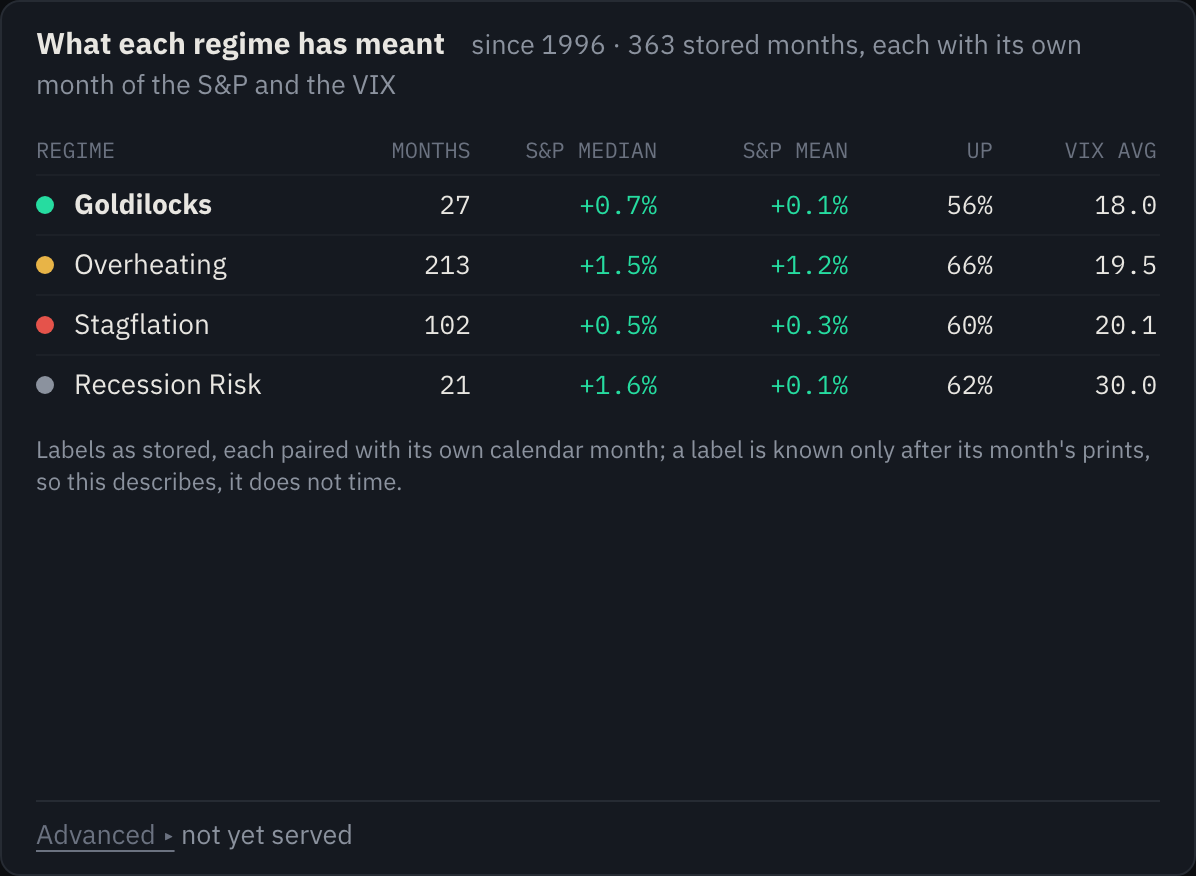
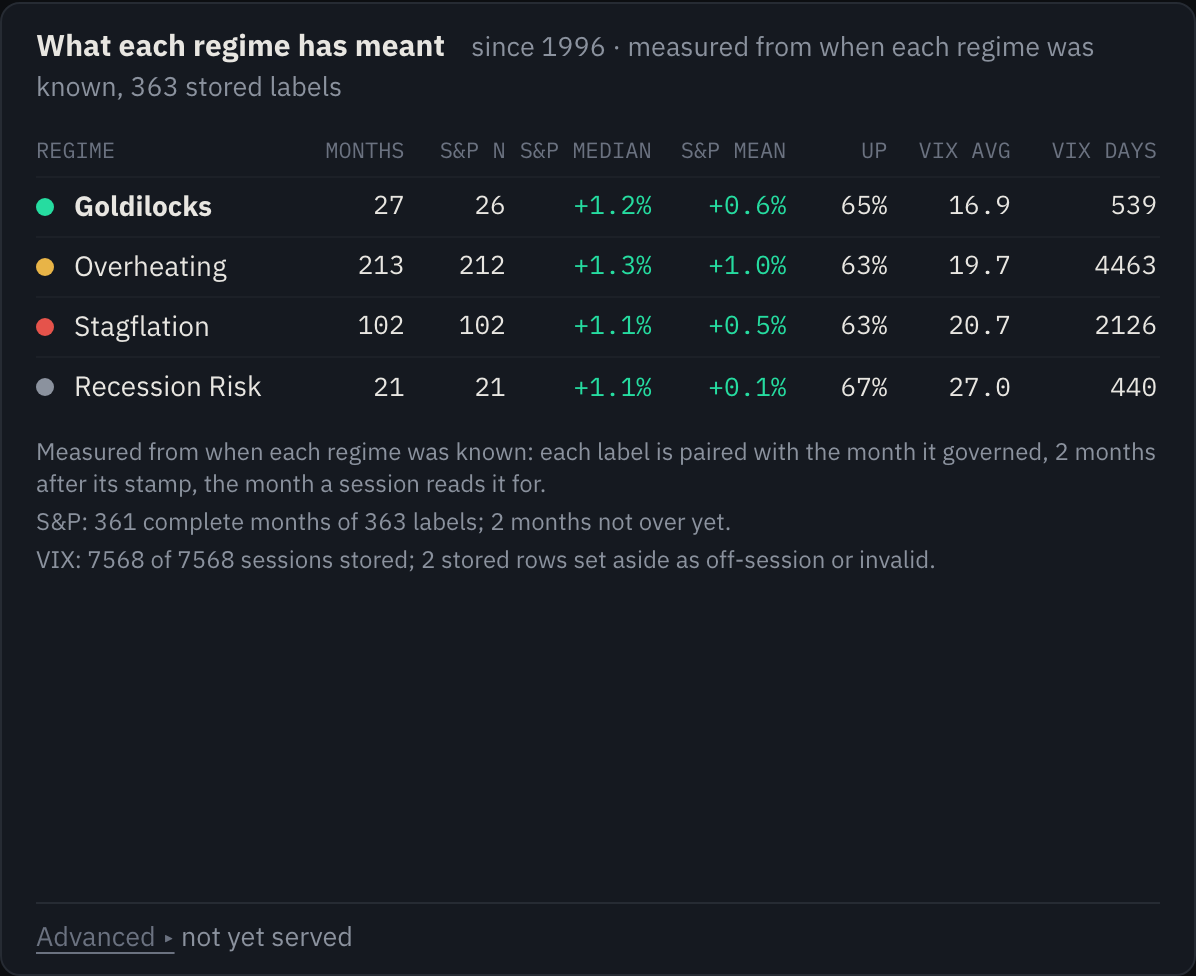
desk fill: live shots after the Codex fixes, and CLAUDE.md
- The live shots of the cards the fixes changed, retaken against a local API
  at c198e1d (no fixtures): the regime table (R-01, R-04, R-07), What would
  change it (R-01, R-05, R-06, R-08), the RSI card (R-08) and the Ledger
  (R-03), on the published store plus ^VIX and on it as it is.
- CLAUDE.md: stale judged per input (R-03); regime statistics measured from
  when each regime was known, return statuses, the VIX aligned and
  validated, and published rows apart from upcoming prints (R-01, R-05, R-06,
  R-07, R-08).

diff --git a/CLAUDE.md b/CLAUDE.md
@@ -149,7 +149,8 @@ Details:
 - **Desk ETF blocks (desk/fill-etf, 2026-09-27):** `api/desk_items_etf.py` is one worker item, `desk_etf`, that reads SPY and the ETFs through `event_study.load_level`, aligns them on the XNYS calendar (a gap is never filled) and stores each block as a part (`desk_items_macro.part`). `GET /api/desk/sectors` (§12.14) is served from it (no longer a stub; `breadth`, of the 11 sector ETFs and never stocks, is its nested block) and `/technicals`' `sectors` block is the same leadership object, and `/macro`'s `stock_bond` (SPY against TLT) and `correlations` (TLT, IEF, HYG, LQD, GLD, UUP, IWM, QQQ, and VIX when stored) blocks come from the same item, `matrix` still awaiting; while the store lacks the ETFs both answer awaiting with "Awaiting refresh: the full refresh stores …". The fixtures' ETF values come from `scripts/desk_etf_fixtures.py` (the audit's store plus a refreshed copy's ETF rows cut at 2026-09-23).
 - **Desk v2 study routes (`desk/frame-3-api`, 2026-09-26):** `api/desk_v2.py` (router `/api/desk`) serves `GET /study`, `/study/catalog`, `/study/events` (§12.4's CSV with `Accept: text/csv`), `/ledger`, `/technicals` and `/overview`, plus six awaiting stubs (`/sectors`, `/vol`, `/positions`, `/basket/{id}`, `/basket/price`, `/hedge`). `api/desk_envelope.py` holds the §12.0 envelope `{status, generation_id, as_of, engine_version, data, unavailable, error}`, the block envelopes, the error map and the enveloped 405. `engine_version` is `ENGINE_VERSION`, else `RENDER_GIT_COMMIT` (production's source, and the Dockerfile sets nothing), else `"unknown"`. Hardening's `_schema_check_failed` steps aside on these routes, which answer the envelope's 503 `schema_check`. The contract is `docs/desk/DESK_FRAME3_SPEC.md` §12, transcribed in `tests/desk_contract.py` and checked against the client's `web/src/fixtures/desk` (`DESK_WEB_SRC` points at another `web/src`). Report: `docs/desk/FRAME3_API_REPORT.md`.
 - **Shared technicals (desk/fill-compute):** `src/analytics/technicals.py` (numpy/pandas only, symbol-agnostic: a close series in) holds `rsi` (Wilder 14), `realized_vol` (21-day, annualized), `ema`/`macd`/`macd_crossings` (12, 26, 9) and `monthly_returns`/`monthly_seasonality`; a NaN close breaks every run (nothing bridges a gap). `/technicals` serves RSI, MACD and seasonality for ^GSPC, the RSI studies (`kind` `rsi`) and the regime table's month returns read the same functions. Add an indicator here, never a second copy.
-- **Stale by publication cadence (desk/fill-compute):** a study is `stale` when its `evaluated_on` trails the comparison session by more XNYS sessions than its slowest input allows (`desk_v2.publication_allowance`: 0 for exchange closes, `api/freshness.DAILY_TOLERANCE` = 3 for FRED daily, 8 for weekly WTI), or is dated after it.
+- **Stale by publication cadence (desk/fill-compute):** a study is `stale` when its `evaluated_on` trails the comparison session by more XNYS sessions than its slowest input allows (`desk_v2.publication_allowance`: 0 for exchange closes, `api/freshness.DAILY_TOLERANCE` = 3 for FRED daily, 8 for weekly WTI), or is dated after it, or any of its inputs trails the comparison session by more than its own tolerance on its own calendar (`desk_v2.inputs_behind`, Codex R-03: a FRED grace never covers a stale close).
+- **Regime statistics are measured from when each regime was known (Codex R-01):** a row stamped M governs month M+2 (the engine's K−2), so `/regime` `stats` pairs each label with the S&P's return and the VIX of the month it governed, and `changes` dates each change by its effective month. Returns carry a status (`complete`, `pending`, `missing`; `MonthReturns` in `api/desk_items_macro.py`); the VIX is aligned and validated like every engine input before it is averaged. `next_prints` separates rows already published from upcoming prints, each release bound to its own reference month (Codex R-05, R-06).
 - **Catalog and items:** `api/desk_catalog.py` (stdlib) holds the 15 studies (all 15 engine queries since desk/fill-compute scored the two RSI rows), `normalize()` (a request names exactly one catalog row, else 422 `unsupported` naming what), the Ledger order and the technicals allowlist. The builders live in `api/desk_items.py` and are registered in `analytics_cache.ITEMS`: `desk_study:<slug>` (each study through `run_on_traced`, whose native payload the `desk_preset:*` items reuse), `desk_technicals`, and `desk_facts`; the regime tile and the recession tile read B2a's `desk_regime` item (`api/desk_items_macro.py`). Projections are memoized on (generation id, route key, `VERDICT_RULE`, `ADAPTER_SCHEMA`), 256 entries. Every field that depends on "now" (firing state, since last close, data status) is computed per response over the memo, never stored in it.
 - **One generation per request (Codex R-01):** every route reads through `desk_envelope.answer`, which pins one generation before its first item read and holds it through the projection, the memo key and the envelope. `request_generation()` returns the request's pin; without one it waits up to the worker's `wait_s` for the first usable publication, else it answers `computing`. `PinGeneration` pins only a request that arrives after a publication, so a cold request once read generation 1's numbers under generation 2's id.
 - **Engine trace, native results unchanged:** `run_traced`/`run_on_traced` in `src/desk/event_study.py` return `(dict, EventTable, SignalTrace)` beside the untouched `run`/`run_on`, and `trigger_mask` factors the threshold test out of `detect_events`. After any change to `src/desk/`, run the three-layer regression gate:
